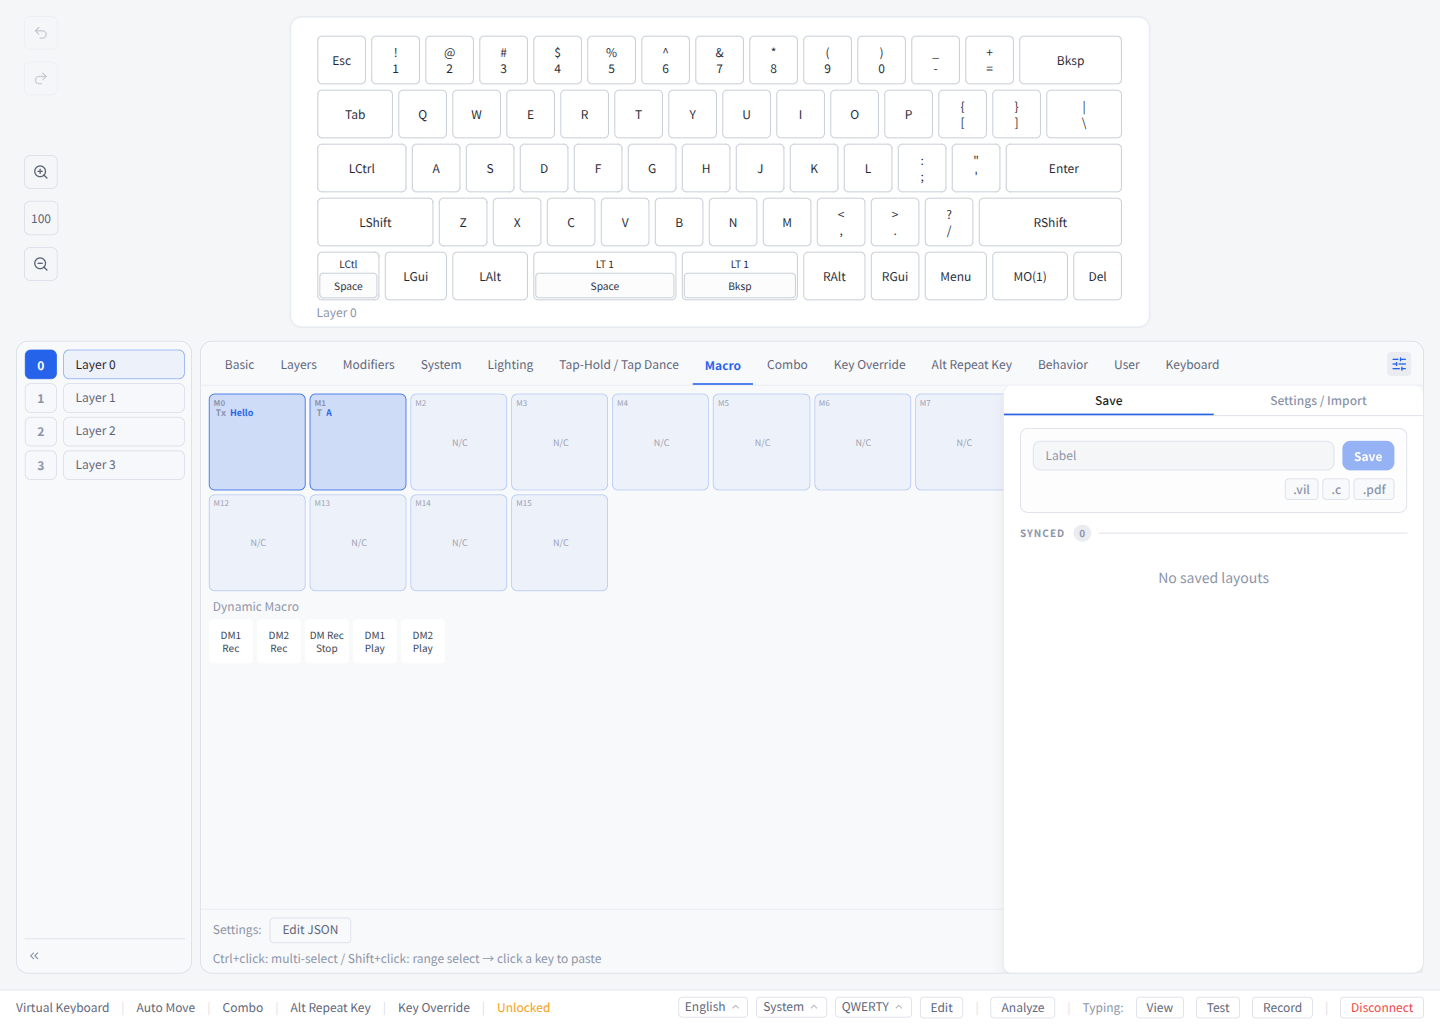
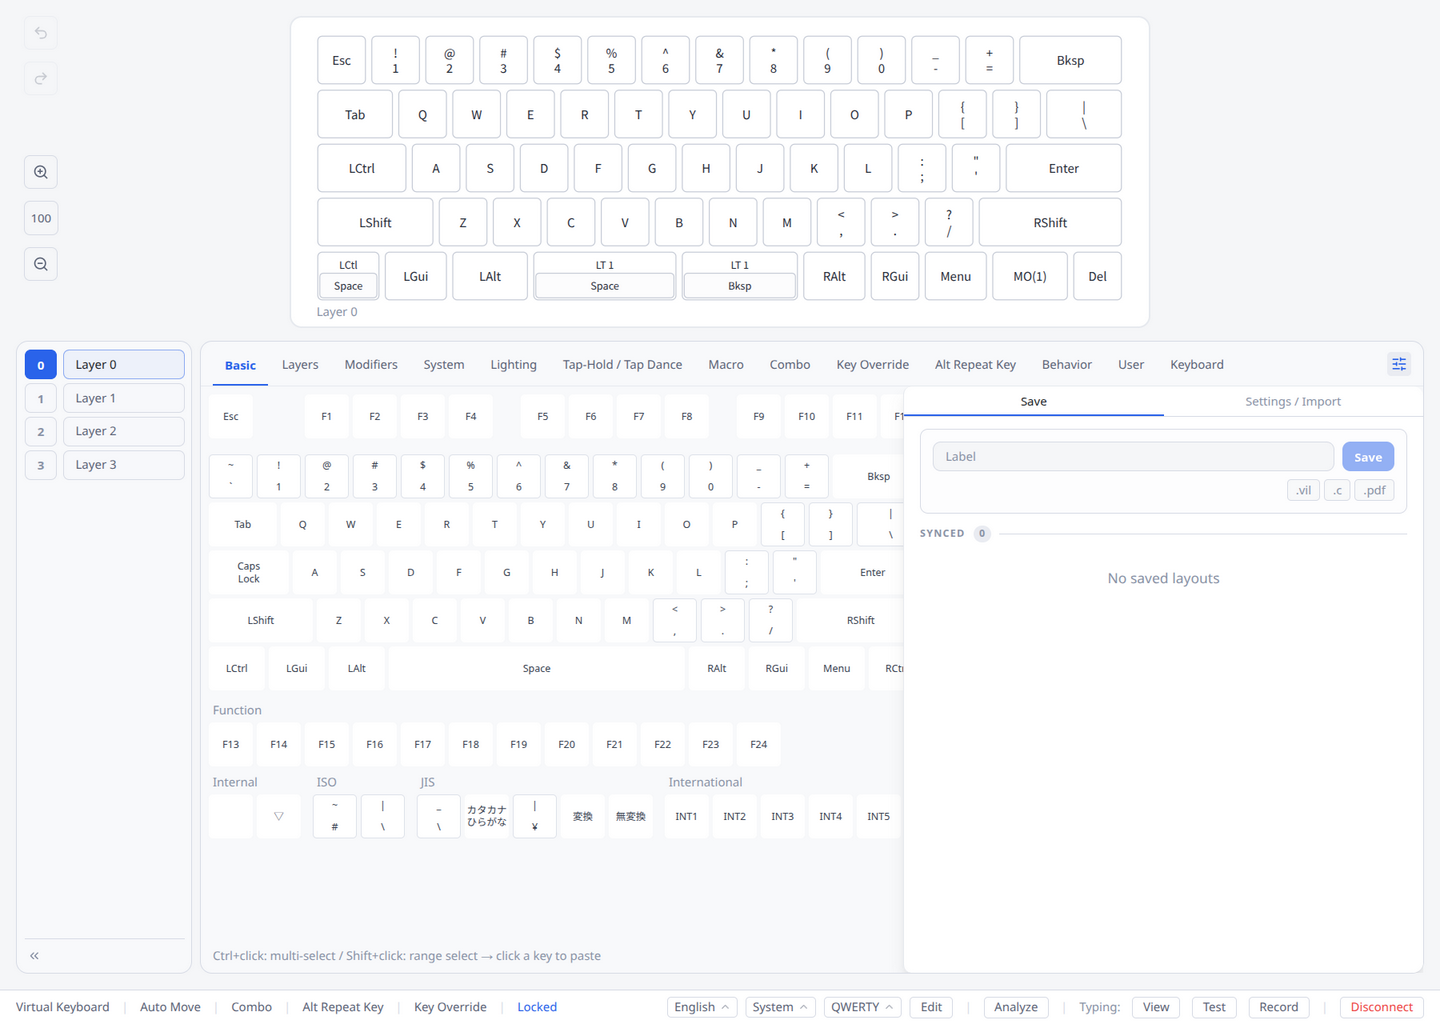
docs: show the layer preview label literally and recapture the Save tab at the wider panel

diff --git a/docs/guide.html b/docs/guide.html
@@ -867,8 +867,8 @@ header {
 <p>Click the collapse button (chevron) to minimize the layer panel to just numbers. Click the expand button to restore full layer names.</p>
 <div class="img-wrap"><img src="screenshots/layer-panel-expanded.png" alt="Layer Panel Expanded" class="doc-img" loading="lazy"></div>
 <p><strong>Layer preview on hover (Auto Layer Preview)</strong></p>
-<p>Rest the pointer on a layer key (<code class="ic">MO</code>, <code class="ic">LT</code>, <code class="ic">TG</code>, <code class="ic">TO</code>, <code class="ic">TT</code>, <code class="ic">OSL</code>, <code class="ic">DF</code>, <code class="ic">PDF</code>, <code class="ic">LM</code>) for about 0.3 seconds and the whole keyboard shows the layer that key switches to, with the label under the keymap reading <strong>Preview - <layer name></strong>. The preview is display only — the current layer, the key selection and the undo history don't change.</p>
-<ul><li>On keys with an inner part (e.g. <code class="ic">LT1(KC_SPC)</code>), only the upper (outer) part starts the preview; moving onto the inner key hides it so the inner key can be selected. The key under the pointer keeps showing its own content during the preview</li><li>Moving the pointer off the key returns to the current layer immediately</li><li>Clicks, double-clicks and middle-clicks always act on the current layer — the preview is dismissed first</li><li>Layer keys assigned to encoders don't start a preview</li><li>There is no preview in View Matrix mode, on the Key Label simulation tab, while keys are multi-selected or picked as paste targets, or while the Key Popover is open</li><li>Turn it on or off with <strong>Auto Layer Preview</strong> in the Keycodes Overlay Panel's Settings / Import tab (§3.14). Saved and synced per keyboard; on by default</li></ul>
+<p>Rest the pointer on a layer key (<code class="ic">MO</code>, <code class="ic">LT</code>, <code class="ic">TG</code>, <code class="ic">TO</code>, <code class="ic">TT</code>, <code class="ic">OSL</code>, <code class="ic">DF</code>, <code class="ic">PDF</code>, <code class="ic">LM</code>) for about 0.3 seconds and the whole keyboard shows the layer that key switches to, with the label under the keymap reading "Preview - Layer N" (or "Preview - " followed by the layer's own name, if it has one). The preview is display only — the current layer, the key selection and the undo history don't change.</p>
+<ul><li>On keys with an inner part (e.g. <code class="ic">LT1(KC_SPC)</code>), only the upper (outer) part starts the preview; moving onto the inner key hides it so the inner key can be selected. The key under the pointer keeps showing its own content during the preview</li><li>Moving the pointer off the key returns to the current layer immediately</li><li>Clicks, double-clicks and middle-clicks always act on the current layer — the preview is dismissed first</li><li>Layer keys assigned to encoders don't start a preview</li><li>There is no preview in View Matrix mode, on the Key Label simulation tab, while keys are multi-selected, while palette keycodes are selected for pasting, or while the Key Popover is open</li><li>Turn it on or off with <strong>Auto Layer Preview</strong> in the Keycodes Overlay Panel's Settings / Import tab (§3.14). Saved and synced per keyboard; on by default</li></ul>
 <h3 id="2-4-key-popover">2.4 Key Popover</h3>
 <p>Double-click a key on the keyboard layout to open the Key Popover — a quick way to search and assign keycodes without scrolling through the palette.</p>
 <p><strong>Layer Sidebar</strong></p>
@@ -1793,8 +1793,8 @@ header {
 <p>折りたたみボタン (シェブロン) をクリックしてレイヤーパネルを番号のみに縮小できます。展開ボタンをクリックすると完全なレイヤー名が復元されます。</p>
 <div class="img-wrap"><img src="screenshots/layer-panel-expanded.png" alt="レイヤーパネル 展開" class="doc-img" loading="lazy"></div>
 <p><strong>ホバーでレイヤーをプレビュー（Auto Layer Preview）</strong></p>
-<p>レイヤーキー（<code class="ic">MO</code>、<code class="ic">LT</code>、<code class="ic">TG</code>、<code class="ic">TO</code>、<code class="ic">TT</code>、<code class="ic">OSL</code>、<code class="ic">DF</code>、<code class="ic">PDF</code>、<code class="ic">LM</code>）にポインターを約 0.3 秒置くと、キーボード全体がそのキーの切り替え先レイヤーの表示になり、キーマップ下のラベルが <strong>Preview - <レイヤー名></strong> になります。表示だけの機能で、現在のレイヤー・キーの選択・undo 履歴は変わりません。</p>
-<ul><li>内側にキーがあるキー（例: <code class="ic">LT1(KC_SPC)</code>）では、上側（外側）の部分だけがプレビューを始めます。内側のキーへ移るとプレビューが消えるので、内側のキーをそのまま選択できます。プレビュー中も、ポインターを置いているキー自身は元の内容のまま表示されます</li><li>キーからポインターを外すと、すぐに現在のレイヤーの表示に戻ります</li><li>クリック・ダブルクリック・中クリックは常に現在のレイヤーに対して働きます（先にプレビューを消します）</li><li>エンコーダーに割り当てたレイヤーキーではプレビューは出ません</li><li>View Matrix モード中、Key Label のシミュレーションタブ、複数キーの選択中やペースト先の選択中、キーポップオーバーを開いている間はプレビューは出ません</li><li>キーコードオーバーレイパネルの Settings / Import タブにある <strong>Auto Layer Preview</strong> でオン/オフを切り替えます (§3.14)。キーボード単位で保存・同期され、既定はオンです</li></ul>
+<p>レイヤーキー（<code class="ic">MO</code>、<code class="ic">LT</code>、<code class="ic">TG</code>、<code class="ic">TO</code>、<code class="ic">TT</code>、<code class="ic">OSL</code>、<code class="ic">DF</code>、<code class="ic">PDF</code>、<code class="ic">LM</code>）にポインターを約 0.3 秒置くと、キーボード全体がそのキーの切り替え先レイヤーの表示になり、キーマップ下のラベルが「Preview - Layer N」（レイヤーに名前を付けている場合は「Preview - 」の後にその名前）になります。表示だけの機能で、現在のレイヤー・キーの選択・undo 履歴は変わりません。</p>
+<ul><li>内側にキーがあるキー（例: <code class="ic">LT1(KC_SPC)</code>）では、上側（外側）の部分だけがプレビューを始めます。内側のキーへ移るとプレビューが消えるので、内側のキーをそのまま選択できます。プレビュー中も、ポインターを置いているキー自身は元の内容のまま表示されます</li><li>キーからポインターを外すと、すぐに現在のレイヤーの表示に戻ります</li><li>クリック・ダブルクリック・中クリックは常に現在のレイヤーに対して働きます（先にプレビューを消します）</li><li>エンコーダーに割り当てたレイヤーキーではプレビューは出ません</li><li>View Matrix モード中、Key Label のシミュレーションタブ、複数キーの選択中、パレットのキーコードをペースト用に選択している間、キーポップオーバーを開いている間はプレビューは出ません</li><li>キーコードオーバーレイパネルの Settings / Import タブにある <strong>Auto Layer Preview</strong> でオン/オフを切り替えます (§3.14)。キーボード単位で保存・同期され、既定はオンです</li></ul>
 <h3 id="2-4-キーポップオーバー">2.4 キーポップオーバー</h3>
 <p>キーボードレイアウト上のキーをダブルクリックすると、キーポップオーバーが開きます。パレットをスクロールせずに、素早くキーコードを検索・割り当てできます。</p>
 <p><strong>レイヤーサイドバー</strong></p>

diff --git a/e2e/helpers/doc-capture-overlay-tools.ts b/e2e/helpers/doc-capture-overlay-tools.ts
@@ -1,7 +1,9 @@
 // SPDX-License-Identifier: GPL-2.0-or-later
 //
-// Adhoc capture for `overlay-tools.png`. Mirrors doc-capture.ts but
-// stops after the keypicker overlay's Settings/Tools tab so we don't have
+// Adhoc capture for the keypicker overlay screenshots — `overlay-tools.png`
+// (Settings / Import tab) plus `overlay-save.png` and
+// `editor-settings-save.png` (Save tab). Mirrors doc-capture.ts but
+// stops after the overlay tabs so we don't have
 // to rerun the full multi-phase pipeline (which currently fails earlier on
 // the Analyze page when device data is sparse).
 //
@@ -88,6 +90,13 @@ async function main(): Promise<void> {
     }
 
     await capture(app, 'overlay-tools')
+
+    if (await openOverlayTab(page, 'data')) {
+      await capture(app, 'overlay-save')
+      await capture(app, 'editor-settings-save')
+    } else {
+      console.log(`  [skip] ${overlayTabNotFoundMessage('data')}`)
+    }
   } finally {
     await app.close().catch((err: unknown) => console.error('  [cleanup] app.close failed:', err))
   }

diff --git a/docs/OPERATION-GUIDE.md b/docs/OPERATION-GUIDE.md
@@ -766,13 +766,13 @@ Click the collapse button (chevron) to minimize the layer panel to just numbers.
 
 **Layer preview on hover (Auto Layer Preview)**
 
-Rest the pointer on a layer key (`MO`, `LT`, `TG`, `TO`, `TT`, `OSL`, `DF`, `PDF`, `LM`) for about 0.3 seconds and the whole keyboard shows the layer that key switches to, with the label under the keymap reading **Preview - <layer name>**. The preview is display only — the current layer, the key selection and the undo history don't change.
+Rest the pointer on a layer key (`MO`, `LT`, `TG`, `TO`, `TT`, `OSL`, `DF`, `PDF`, `LM`) for about 0.3 seconds and the whole keyboard shows the layer that key switches to, with the label under the keymap reading "Preview - Layer N" (or "Preview - " followed by the layer's own name, if it has one). The preview is display only — the current layer, the key selection and the undo history don't change.
 
 - On keys with an inner part (e.g. `LT1(KC_SPC)`), only the upper (outer) part starts the preview; moving onto the inner key hides it so the inner key can be selected. The key under the pointer keeps showing its own content during the preview
 - Moving the pointer off the key returns to the current layer immediately
 - Clicks, double-clicks and middle-clicks always act on the current layer — the preview is dismissed first
 - Layer keys assigned to encoders don't start a preview
-- There is no preview in View Matrix mode, on the Key Label simulation tab, while keys are multi-selected or picked as paste targets, or while the Key Popover is open
+- There is no preview in View Matrix mode, on the Key Label simulation tab, while keys are multi-selected, while palette keycodes are selected for pasting, or while the Key Popover is open
 - Turn it on or off with **Auto Layer Preview** in the Keycodes Overlay Panel's Settings / Import tab (§3.14). Saved and synced per keyboard; on by default
 
 ### 2.4 Key Popover
